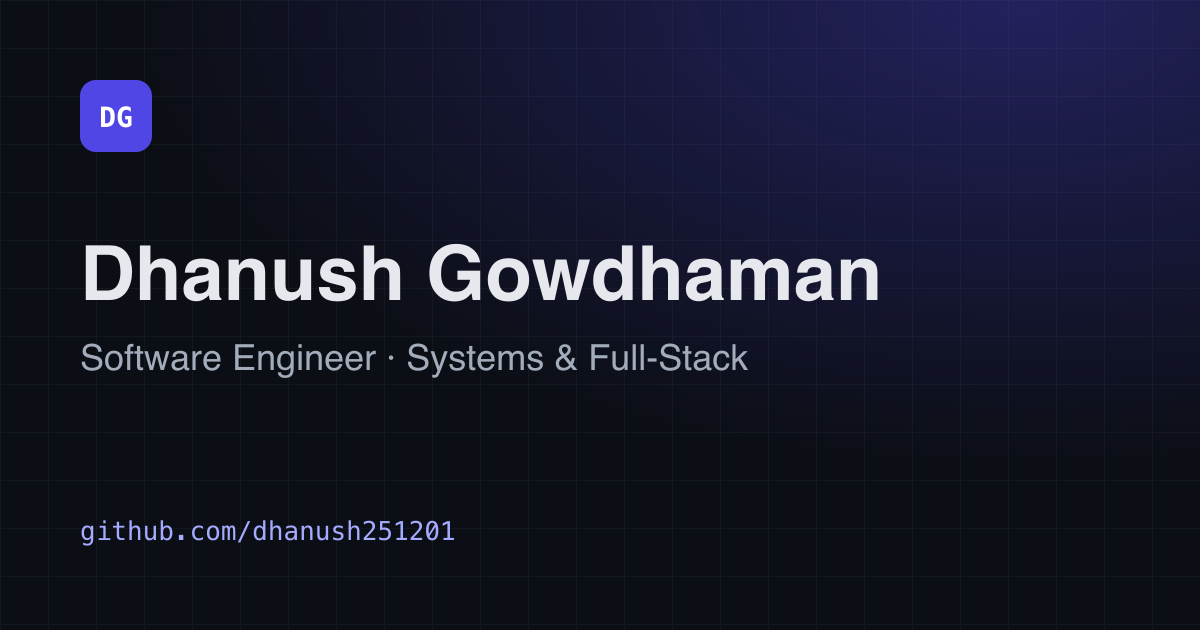
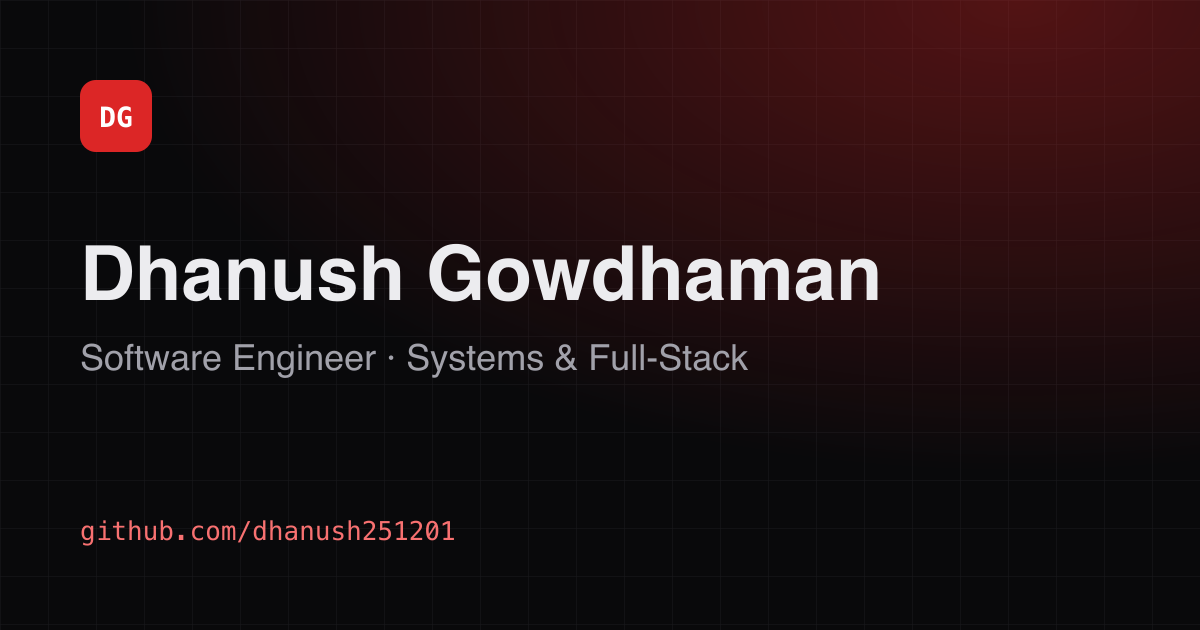
Switch to red color scheme and make the base path configurable
Replace the indigo palette with cool greys and a red accent, in both
light and dark mode, and regenerate the favicon and link-preview image
to match.

Make `site` and `base` in astro.config.mjs overridable through the SITE
and BASE environment variables, with GitHub Pages as the default. The
new `build:local` and `dev:local` scripts build for localserver at
http://portfolio.localhost/, which serves the site from the root; the
default build put every asset under /dhanush-portfolio/, so stylesheets
404'd there. robots.txt no longer hard-codes the sitemap URL.

diff --git a/src/styles/global.css b/src/styles/global.css
@@ -6,37 +6,37 @@
 
 /* ---------- Design tokens ---------- */
 :root {
-  --bg: #fbfbfd;
+  --bg: #f5f5f6;
   --surface: #ffffff;
-  --surface-2: #f3f4f8;
-  --fg: #0f172a;
-  --muted: #4b5563;
-  --subtle: #6b7280;
-  --border: #e5e7eb;
-  --accent: #4f46e5;
+  --surface-2: #ebebee;
+  --fg: #0a0a0b;
+  --muted: #52525b;
+  --subtle: #71717a;
+  --border: #dcdce0;
+  --accent: #dc2626;
   --accent-fg: #ffffff;
-  --accent-soft: #eef2ff;
-  --accent-text: #4338ca;
+  --accent-soft: #fee2e2;
+  --accent-text: #b91c1c;
   --ok: #047857;
   --ok-soft: #ecfdf5;
-  --shadow: 0 1px 2px rgb(15 23 42 / 0.04), 0 8px 24px -12px rgb(15 23 42 / 0.12);
+  --shadow: 0 1px 2px rgb(10 10 11 / 0.04), 0 8px 24px -12px rgb(10 10 11 / 0.12);
   color-scheme: light;
 }
 
 /* No-JS fallback: follow the OS unless the user picked light. */
 @media (prefers-color-scheme: dark) {
   :root:not([data-theme='light']) {
-    --bg: #0b0e14;
-    --surface: #11151d;
-    --surface-2: #171c26;
-    --fg: #e6e8ee;
-    --muted: #a3acbb;
-    --subtle: #8a93a3;
-    --border: #232a36;
-    --accent: #8b93ff;
-    --accent-fg: #0b0e14;
-    --accent-soft: rgb(139 147 255 / 0.12);
-    --accent-text: #a5acff;
+    --bg: #09090b;
+    --surface: #111113;
+    --surface-2: #18181b;
+    --fg: #ececef;
+    --muted: #a1a1aa;
+    --subtle: #8a8a93;
+    --border: #27272a;
+    --accent: #ef4444;
+    --accent-fg: #09090b;
+    --accent-soft: rgb(239 68 68 / 0.12);
+    --accent-text: #f87171;
     --ok: #34d399;
     --ok-soft: rgb(52 211 153 / 0.12);
     --shadow: 0 1px 2px rgb(0 0 0 / 0.3), 0 8px 24px -12px rgb(0 0 0 / 0.6);
@@ -45,17 +45,17 @@
 }
 
 :root[data-theme='dark'] {
-  --bg: #0b0e14;
-  --surface: #11151d;
-  --surface-2: #171c26;
-  --fg: #e6e8ee;
-  --muted: #a3acbb;
-  --subtle: #8a93a3;
-  --border: #232a36;
-  --accent: #8b93ff;
-  --accent-fg: #0b0e14;
-  --accent-soft: rgb(139 147 255 / 0.12);
-  --accent-text: #a5acff;
+  --bg: #09090b;
+  --surface: #111113;
+  --surface-2: #18181b;
+  --fg: #ececef;
+  --muted: #a1a1aa;
+  --subtle: #8a8a93;
+  --border: #27272a;
+  --accent: #ef4444;
+  --accent-fg: #09090b;
+  --accent-soft: rgb(239 68 68 / 0.12);
+  --accent-text: #f87171;
   --ok: #34d399;
   --ok-soft: rgb(52 211 153 / 0.12);
   --shadow: 0 1px 2px rgb(0 0 0 / 0.3), 0 8px 24px -12px rgb(0 0 0 / 0.6);

diff --git a/README.md b/README.md
@@ -10,9 +10,18 @@ Node 22.12 or newer.
 ```bash
 npm install
 npm run dev       # http://localhost:4321/dhanush-portfolio/ with hot reload
-npm run build     # type-check, then build to dist/
+npm run build     # type-check, then build to dist/ for GitHub Pages
 npm run preview   # serve the built dist/ locally
 ```
+
+To host it on localserver at http://portfolio.localhost/ (served from the root, not a subpath):
+
+```bash
+npm run build:local   # build to dist/ with SITE=http://portfolio.localhost and BASE=/
+npm run dev:local     # same, with hot reload
+```
+
+In localserver, point the app's static service at `dist/` and set its build command to `npm run build:local`.
 
 ## Where the content lives
 
@@ -67,12 +76,13 @@ served at **https://dhanush251201.github.io/dhanush-portfolio/**.
 - Each push to `main` runs `.github/workflows/deploy.yml`, which builds the site and publishes it to GitHub Pages.
 - One-time setup: in the repository, go to **Settings → Pages → Build and deployment → Source** and choose **GitHub Actions**.
 
-Because the site is served from a subpath, `base: '/dhanush-portfolio'` is set in `astro.config.mjs`, and internal
-links go through the `url()` helper in `src/lib/url.ts`. In Markdown, link to other projects relatively, e.g.
-`[localserver](../localserver/)`.
+Because the site is served from a subpath, `astro.config.mjs` defaults to `base: '/dhanush-portfolio'`, and
+internal links go through the `url()` helper in `src/lib/url.ts`. In Markdown, link to other projects relatively,
+e.g. `[localserver](../localserver/)`.
 
-To move the site to the root (the `dhanush251201.github.io` repository or a custom domain), remove `base` from
-`astro.config.mjs`. For a custom domain, also add `public/CNAME` and set `site` to the domain.
+The `SITE` and `BASE` environment variables override those defaults for any other host (see `build:local` above).
+To move the site to the root of GitHub Pages (the `dhanush251201.github.io` repository) or a custom domain, change
+the defaults in `astro.config.mjs`. For a custom domain, also add `public/CNAME`.
 
 ## Optional analytics
 
